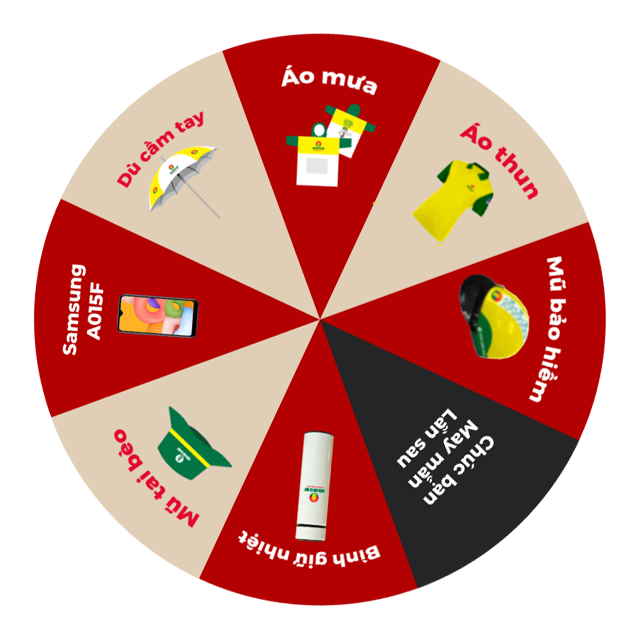
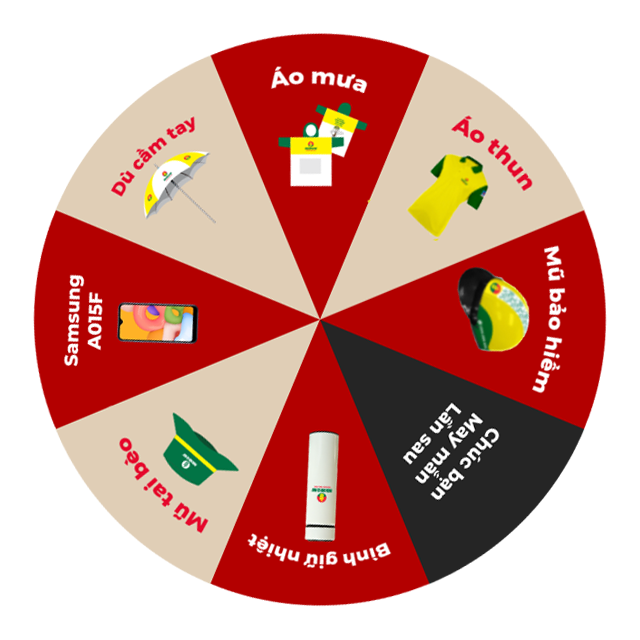
feature_feedback
fixed lucky

diff --git a/html/css/styles.css b/html/css/styles.css
@@ -203,8 +203,8 @@ strong {
 }
 
 .spin {
-  -webkit-transform: rotate(20deg);
-  transform: rotate(20deg);
+  /* -webkit-transform: rotate(22.5deg);
+  transform: rotate(22.5deg); */
 }
 
 .spin-arrow {
